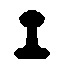
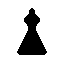
Checks system upgraded, new pawn teksture

Changed region(s): [[0.2188, 0.1562, 0.7812, 0.9375], [0.4688, 0.125, 0.5312, 0.1562]]

diff --git a/main.py b/main.py
@@ -360,15 +360,19 @@ def show_legal_moves(x, y):
         if board[x][y].model[1] == '0':
             if not is_white_moved[0]:
                 if not is_white_moved[1] and board[7][5] == '' and board[7][6] == '':
-                    places.append((7, 6))
+                    if (not is_place_occupied(7, 5, '1')) and (not is_place_occupied(7, 6, '1')):
+                        places.append((7, 6))
                 if not is_white_moved[2] and board[7][3] == '' and board[7][2] == '' and board[7][1] == '':
-                    places.append((7, 2))
+                    if (not is_place_occupied(7, 3, '1')) and (not is_place_occupied(7, 2, '1')) and (not is_place_occupied(7, 1, '1')):
+                        places.append((7, 2))
         else:
             if not is_black_moved[0]:
                 if not is_black_moved[1] and board[0][5] == '' and board[0][6] == '':
-                    places.append((0, 6))
+                    if (not is_place_occupied(0, 5, '0')) and (not is_place_occupied(0, 6, '0')):
+                        places.append((0, 6))
                 if not is_white_moved[2] and board[0][3] == '' and board[0][2] == '' and board[0][1] == '':
-                    places.append((0, 2))
+                    if (not is_place_occupied(0, 3, '0')) and (not is_place_occupied(0, 2, '0')) and (not is_place_occupied(0, 1, '0')):
+                        places.append((0, 2))
 
     return places
 
@@ -602,8 +606,6 @@ def is_place_occupied(r, t, color):
                         else:
                             break
 
-    # print(plac)
-    print((r, t), (r, t) in plac)
     return (r, t) in plac
 
 
